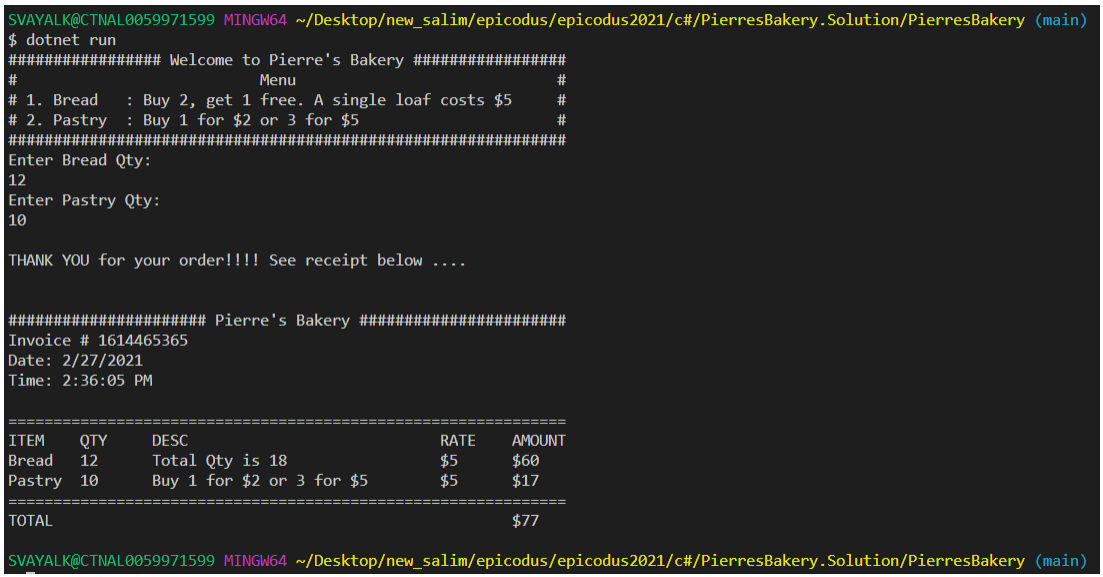
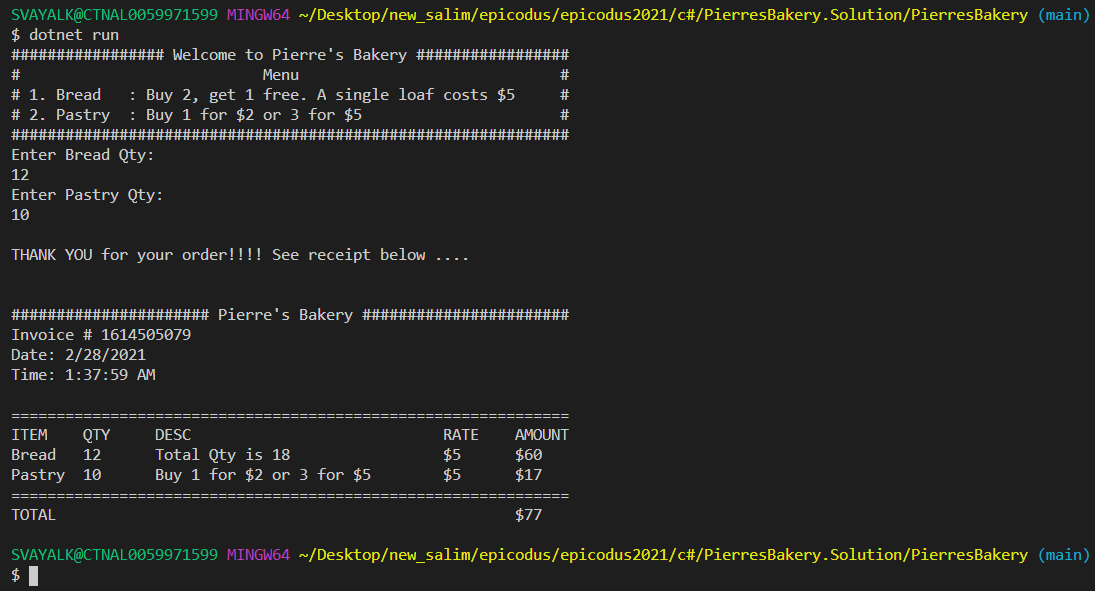
update print screen shot in README + set max qty allowed to 25

Changed region(s): [[0.0, 0.0, 1.0, 1.0]]

diff --git a/PierresBakery/Program.cs b/PierresBakery/Program.cs
@@ -15,6 +15,7 @@ namespace PierresBakery
       {
         int breadCount;
         int pastryCount;
+        int pastryUnitCost;
         Console.WriteLine("################# Welcome to Pierre's Bakery #################");
         Console.WriteLine("#                           Menu                             #");
         Console.WriteLine("# 1. Bread   : Buy 2, get 1 free. A single loaf costs $5     #");
@@ -26,7 +27,7 @@ namespace PierresBakery
         Console.WriteLine("Enter Pastry Qty: ");
         bool parseSuccessPastry = int.TryParse(Console.ReadLine(), out pastryCount);
 
-        while((!parseSuccessBread) || (breadCount < 0) || (!parseSuccessPastry) || (pastryCount < 0)  || (breadCount >99) || (pastryCount > 99)) //ensure qty entered is int and is 0 or greater & less than 99
+        while((!parseSuccessBread) || (breadCount < 0) || (!parseSuccessPastry) || (pastryCount < 0)  || (breadCount >25) || (pastryCount > 25)) //ensure qty entered is int and is 0 or greater & less than 25
         {
           Console.WriteLine("INVALID. Enter a valid Quantity else enter Q to Exit or hit ENTER to restart");
           if (Console.ReadLine() == "Q")
@@ -50,7 +51,15 @@ namespace PierresBakery
         Console.WriteLine("==============================================================");
         Console.WriteLine($"ITEM{"\t"}QTY{"\t"}DESC{"\t"}{"\t"}{"\t"}{"\t"}RATE{"\t"}AMOUNT");
         Console.WriteLine($"Bread{"\t"}{breadCount}{"\t"}Total Qty is {bread.FindTotalQuantity()}{"\t"}{"\t"}{"\t"}${bread.BreadUnitCost}{"\t"}${bread.FindTotalCost()}");
-        Console.WriteLine($"Pastry{"\t"}{pastryCount}{"\t"}Buy 1 for $2 or 3 for $5{"\t"}${pastry.BreadUnitCost}{"\t"}${pastry.FindTotalCost()}");
+        if(pastryCount > 2)
+        {
+          pastryUnitCost = pastry.PastryCostForThree;
+        }
+        else
+        {
+          pastryUnitCost = pastry.PastryUnitCost;
+        }
+        Console.WriteLine($"Pastry{"\t"}{pastryCount}{"\t"}Buy 1 for $2 or 3 for $5{"\t"}${pastryUnitCost}{"\t"}${pastry.FindTotalCost()}");
         Console.WriteLine("==============================================================");
         Console.WriteLine($"TOTAL{"\t"}{"\t"}{"\t"}{"\t"}{"\t"}{"\t"}{"\t"}${bread.FindTotalCost() + pastry.FindTotalCost()}");
 
